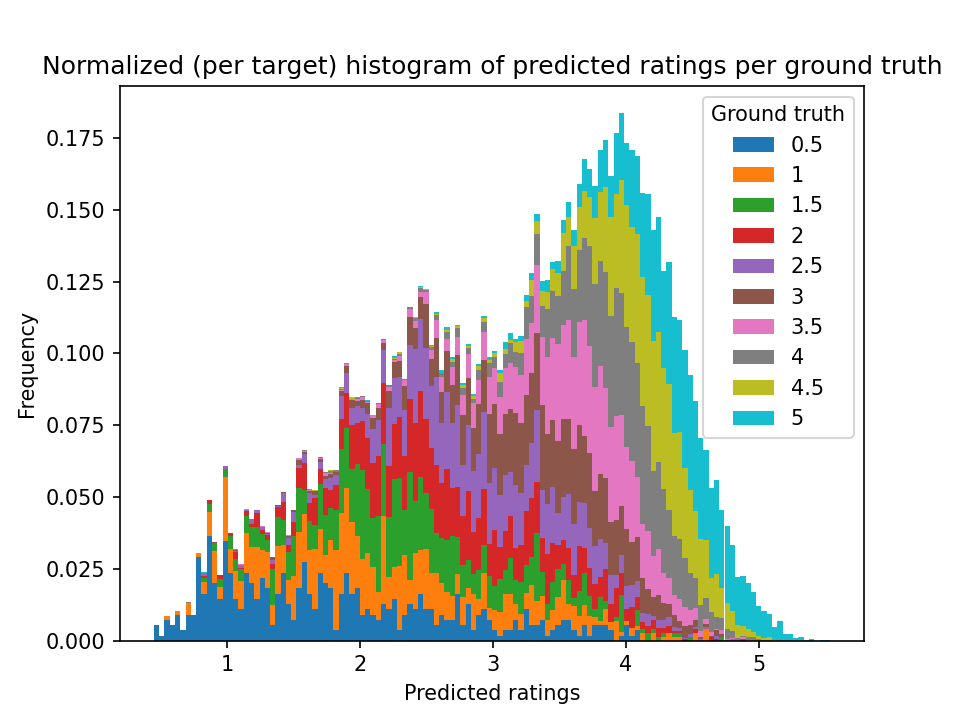
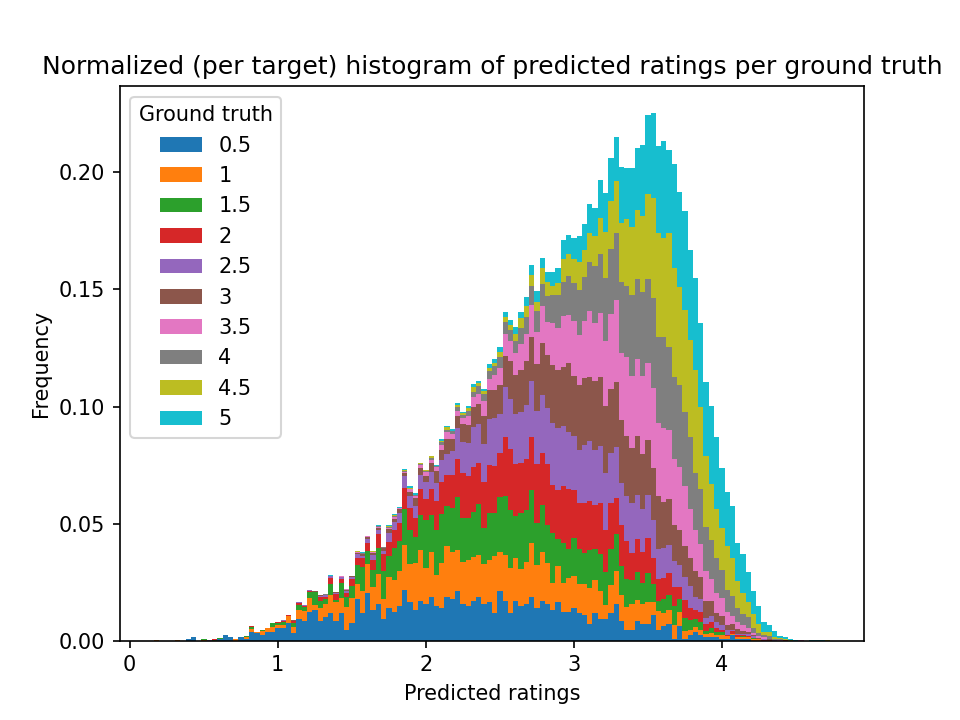
Implemented NDCG metric for test eval -  seems too good to be true? 95%? Really?

diff --git a/src/neural_collaborative_filtering/eval.py b/src/neural_collaborative_filtering/eval.py
@@ -8,6 +8,7 @@ from torch.utils.data import DataLoader
 from tqdm import tqdm
 from sklearn.metrics import ndcg_score
 
+from neural_collaborative_filtering.content_providers import ContentProvider
 from neural_collaborative_filtering.models.advanced_ncf import AttentionNCF
 from neural_collaborative_filtering.models.base import NCF
 from neural_collaborative_filtering.plots import plot_residuals, plot_stacked_residuals, plot_rated_items_counts, plot_att_stats
@@ -20,12 +21,47 @@ visualize = False
 keep_att_stats = False
 
 
-def eval_ranking(model: NCF, test_file):
-    # TODO: how do we group predictions per user?
-    test_samples: pd.DataFrame = pd.read_csv(test_file + '.csv')
-    for userId, row in test_samples.groupby('userId').agg(list).iterrows():
-        print(userId, row)
-        # TODO
+def eval_ranking(model: NCF, samples: pd.DataFrame, cp: ContentProvider):
+    # load samples to evaluate ndcg on
+    # samples: pd.DataFrame = pd.read_csv(file + '.csv')
+
+    model.eval()
+    model.to(device)
+    ndcgs = []
+    with torch.no_grad():
+        for userId, row in tqdm(samples.groupby('userId').agg(list).iterrows(), total=len(samples['userId'].unique()), file=sys.stdout):
+            if len(row['movieId']) <= 0:
+                print("Warning: Found user with no interactions")
+                continue
+
+            # create user input from content provider - one user replicated once for each item he interacted with
+            user_vec = cp.get_user_profile(userId).values
+            user_vecs = np.tile(user_vec, (len(row['movieId']), 1))  # repeat vector on axis=0
+
+            # create item input fron content provider
+            item_vecs = cp.get_item_profile(row['movieId']).values
+
+            # forward the model
+            user_vecs = torch.FloatTensor(user_vecs).to(device)
+            item_vecs = torch.FloatTensor(item_vecs).to(device)
+            out = model(user_vecs, item_vecs)
+
+            # get y_pred from model in appropriate format
+            y_pred = np.array([x[0] for x in out.cpu().numpy()], dtype=np.float64)
+
+            # get y_true from known test labels
+            y_true = np.array(row['rating'], dtype=np.float64)
+
+            # calculate ndcg for this user
+            ndcg = ndcg_score([y_true], [y_pred])
+
+            # append to ndcgs for all users
+            ndcgs.append(ndcg)
+
+    # average ndcgs for all users to get a general estimate
+    final_ndcg = np.mean(ndcgs)
+
+    return final_ndcg
 
 
 def eval_model(model: NCF, test_dataset, batch_size):
@@ -73,6 +109,8 @@ def eval_model(model: NCF, test_dataset, batch_size):
 
     test_mse = test_sum_loss / test_size
     print(f'Test loss (MSE): {test_mse:.4f} - RMSE: {sqrt(test_mse):.4f}')
+
+    print(f'Ranking eval: NDCG = {eval_ranking(model, test_dataset.samples, test_dataset.content_provider)}')
 
     fitted_values = np.concatenate(fitted_values, dtype=np.float64).reshape(-1)
     ground_truth = np.concatenate(ground_truth, dtype=np.float64).reshape(-1)

diff --git a/src/evaluate.py b/src/evaluate.py
@@ -1,11 +1,10 @@
 import torch
 
-from content_providers.dynamic_movieLens_dataset import DynamicMovieLensDataset, MyCollator
 from content_providers.fixed_profiles_provider import FixedProfilesProvider
 from content_providers.one_hot_provider import OneHotProvider
 from globals import test_set_file, val_batch_size, USE_FEATURES
-from neural_collaborative_filtering.datasets.base import PointwiseDataset
-from neural_collaborative_filtering.eval import eval_model_with_visualization
+from neural_collaborative_filtering.datasets.fixed_datasets import PointwiseDataset
+from neural_collaborative_filtering.eval import eval_model
 from neural_collaborative_filtering.models.advanced_ncf import AttentionNCF
 from neural_collaborative_filtering.models.basic_ncf import BasicMultimodalNCF
 from neural_collaborative_filtering.models.basic_ncf import BasicNCF
@@ -20,7 +19,7 @@ keep_att_stats = False
 
 
 if __name__ == '__main__':
-    model_file = '../models/final_model.pt'
+    model_file = '../models/checkpoint.pt'
 
     if USE_FEATURES:
         # dataset_class = DynamicMovieLensDataset
@@ -52,4 +51,4 @@ if __name__ == '__main__':
     print(model)
 
     # evaluate model on test set
-    eval_model_with_visualization(model, test_dataset, val_batch_size)
+    eval_model(model, test_dataset, val_batch_size)
